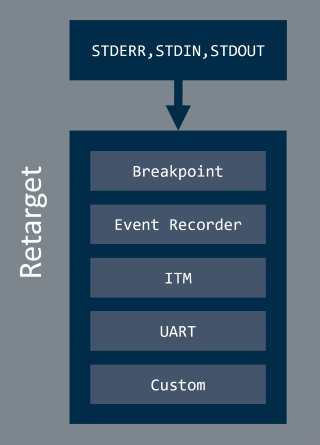
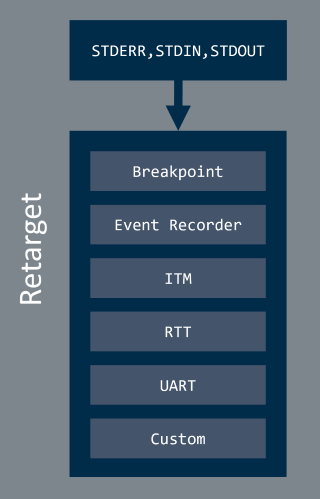
Update documentation for RTT (#85)
Resolves https://github.com/ARM-software/CMSIS-Compiler/issues/73

Pull request: Update documentation for RTT
Resolves https://github.com/ARM-software/CMSIS-Compiler/issues/73

Changed region(s): [[0.2188, 0.0876, 0.9062, 0.964], [0.2188, 0.0292, 0.9062, 0.0584], [0.0625, 0.3798, 0.1562, 0.6427]]

diff --git a/documentation/doxygen/src/usage.md b/documentation/doxygen/src/usage.md
@@ -19,7 +19,7 @@ cpackget add ARM::CMSIS-Compiler
 Alternatively, you can download the latest version from the
 [CMSIS-Compiler](https://www.keil.arm.com/packs/cmsis-compiler-arm/versions/) page.
 
-## Component selection and usage
+## Component selection
 
 1. In your IDE, open the
    [Manage software components](https://mdk-packs.github.io/vscode-cmsis-solution-docs/create_app.html#software-components)
@@ -27,9 +27,108 @@ Alternatively, you can download the latest version from the
 2. If you cannot see the **CMSIS-Compiler** component, select to display **All installed packs**.
 3. You must select the component **CMSIS-Compiler::CORE** and at least one additional **API**.
 
+
 ![Manage software components](./images/component-selection.png)
+
+## Resolve Dependencies {#usage_resolve_dependencies}
+
+### Using Event Recorder {#usage_evr}
+
+The **Event Recorder** subcomponent requires the `CMSIS-View::Event Recorder` component from the [CMSIS-View](https://www.keil.arm.com/packs/cmsis-view-arm/) pack.
+
+1) Install the **CMSIS-View** pack:
+
+   ```sh
+   cpackget add ARM::CMSIS-View
+   ```
+
+2) In the **Manage Software Components** dialog, select **Software Pack**, then choose **All installed packs** and find and select **ARM::CMSIS-View**.
+
+   ![Select CMSIS-View Pack](./images/stdio_evr_pack.png)
+
+3) Select the **CMSIS-View::Event Recorder** component.
+
+   ![Select CMSIS-View::Event Recorder Component](./images/stdio_evr_components.png)
+
+The project yml file should contain:
+
+```yml
+packs:
+   - pack: ARM::CMSIS-Compiler
+   - pack: ARM::CMSIS-View
+```
+
+```yml
+components:
+   - component: CMSIS-Compiler:CORE
+   - component: CMSIS-Compiler:STDOUT:Event Recorder
+   - component: CMSIS-View:Event Recorder&DAP
+```
+
+### Using RTT {#usage_rtt}
+
+The **RTT** subcomponent requires the `SEGGER::RTT` component from the [SEGGER RTT](https://www.keil.arm.com/packs/rtt-segger/) pack.
+
+1) Install the **SEGGER RTT** pack:
+
+   ```sh
+   cpackget add SEGGER::RTT
+   ```
+
+2) In the **Manage Software Components** dialog, select **Software Pack**, then choose **All installed packs** and find and select **SEGGER::RTT**.
+
+   ![Select SEGGER Pack](./images/stdio_rtt_pack.png)
+
+3) Select the **SEGGER::RTT** component.
+
+   ![Select SEGGER::RTT Component](./images/stdio_rtt_components.png)
+
+The project yml file should contain:
+
+```yml
+packs:
+   - pack: ARM::CMSIS-Compiler
+   - pack: SEGGER::RTT
+```
+
+```yml
+components:
+   - component: CMSIS-Compiler:CORE
+   - component: CMSIS-Compiler:STDOUT:RTT
+   - component: SEGGER:RTT
+```
+
+### Using UART {#usage_uart}
+
+The **UART** subcomponent provides default implementation variant **CMSIS** which requires the `CMSIS Driver::USART` implementation, typically provided by a Board Support Pack (BSP) or Device Family Pack (DFP) for the target hardware.
 
 > **Note**
 >
-> Refer to the sections [Low-level I/O](./rt_io.md) and
-> [Multithreading Support Retarget](./rt_os.md) for more information about the retargeting options.
+> Use the [CMSIS Packs catalog](https://www.keil.arm.com/packs/) to find the appropriate pack for your target hardware.
+
+1) Install the Board Support Pack (BSP) or Device Family Pack (DFP):
+
+   ```sh
+   cpackget add Vendor::Pack
+   ```
+
+2) In the **Manage Software Components** dialog, select **Software Pack**, then choose **All installed packs** and find and select installed BSP or DFP.
+
+3) Select the **CMSIS Driver::USART** component.
+
+   ![Select CMSIS Driver::USART Component](./images/stdio_uart_components.png)
+
+The project yml file should contain:
+
+```yml
+packs:
+   - pack: ARM::CMSIS-Compiler
+   - pack: Vendor::Pack
+```
+
+```yml
+components:
+   - component: CMSIS-Compiler:CORE
+   - component: CMSIS-Compiler:STDOUT:UART&CMSIS
+   - component: CMSIS Driver:USART
+```

diff --git a/documentation/doxygen/src/rt_io.md b/documentation/doxygen/src/rt_io.md
@@ -34,13 +34,14 @@ The subcomponent selection allows you to change the target hardware interface of
 
 The following subcomponents are available:
 
- Variant              | Description
-:---------------------|:-------------------
-**Breakpoint**        | When the I/O stream is used, the application stops with [BKPT](https://developer.arm.com/documentation/100073/latest/The-Arm-C-and-C---Libraries/Support-for-building-an-application-with-the-C-library/Using-the-C-and-C---libraries-with-an-application-in-a-semihosting-environment?lang=en) instruction. No additional code is required.
-**Event Recorder**    | STDOUT and STDERR can be redirected using the [Event Recorder](https://arm-software.github.io/CMSIS-View/main/evr.html) (especially interesting for targets without ITM (such as Cortex-M0/M0+/M23)).
-**ITM**               | Use [Instrumentation Trace Macrocell (ITM)](https://developer.arm.com/documentation/ddi0314/h/Instrumentation-Trace-Macrocell?lang=en) for I/O communication via the debugger (only available for Cortex-M3/M4/M7/M33/M55/M85 processors).<br/> Usually, data is shown in a dedicated window.<br/> No additional code is required to output or input data through the ITM channel. However, you have to configure the ITM channel for tracing.
-**UART**              | Retarget I/O streams to UART. Default implementation variant uses CMSIS-Driver USART.
-**Custom**            | Retarget I/O stream to a user defined interface (such as custom UART implementation or other application specific interface).<br/>See \subpage custom_subcomponent for further details.
+ Variant           | Description
+:------------------|:-------------------
+**Breakpoint**     | When the I/O stream is used, the application stops with [BKPT](https://developer.arm.com/documentation/100073/latest/The-Arm-C-and-C---Libraries/Support-for-building-an-application-with-the-C-library/Using-the-C-and-C---libraries-with-an-application-in-a-semihosting-environment?lang=en) instruction. No additional code is required.
+**Event Recorder** | STDOUT and STDERR can be redirected using the [Event Recorder](https://arm-software.github.io/CMSIS-View/main/evr.html) (especially interesting for targets without ITM (such as Cortex-M0/M0+/M23)).
+**ITM**            | Use [Instrumentation Trace Macrocell (ITM)](https://developer.arm.com/documentation/ddi0314/h/Instrumentation-Trace-Macrocell?lang=en) for I/O communication via the debugger (only available for Cortex-M3/M4/M7/M33/M55/M85 processors).<br/> Usually, data is shown in a dedicated window.<br/> No additional code is required to output or input data through the ITM channel. However, you have to configure the ITM channel for tracing.
+**RTT**            | Retarget I/O streams to SEGGER RTT Channel 0.
+**UART**           | Retarget I/O streams to UART. Default implementation variant uses CMSIS-Driver USART.
+**Custom**         | Retarget I/O stream to a user defined interface (such as custom UART implementation or other application specific interface).<br/>See \subpage custom_subcomponent for further details.
 
 
 > **Note**